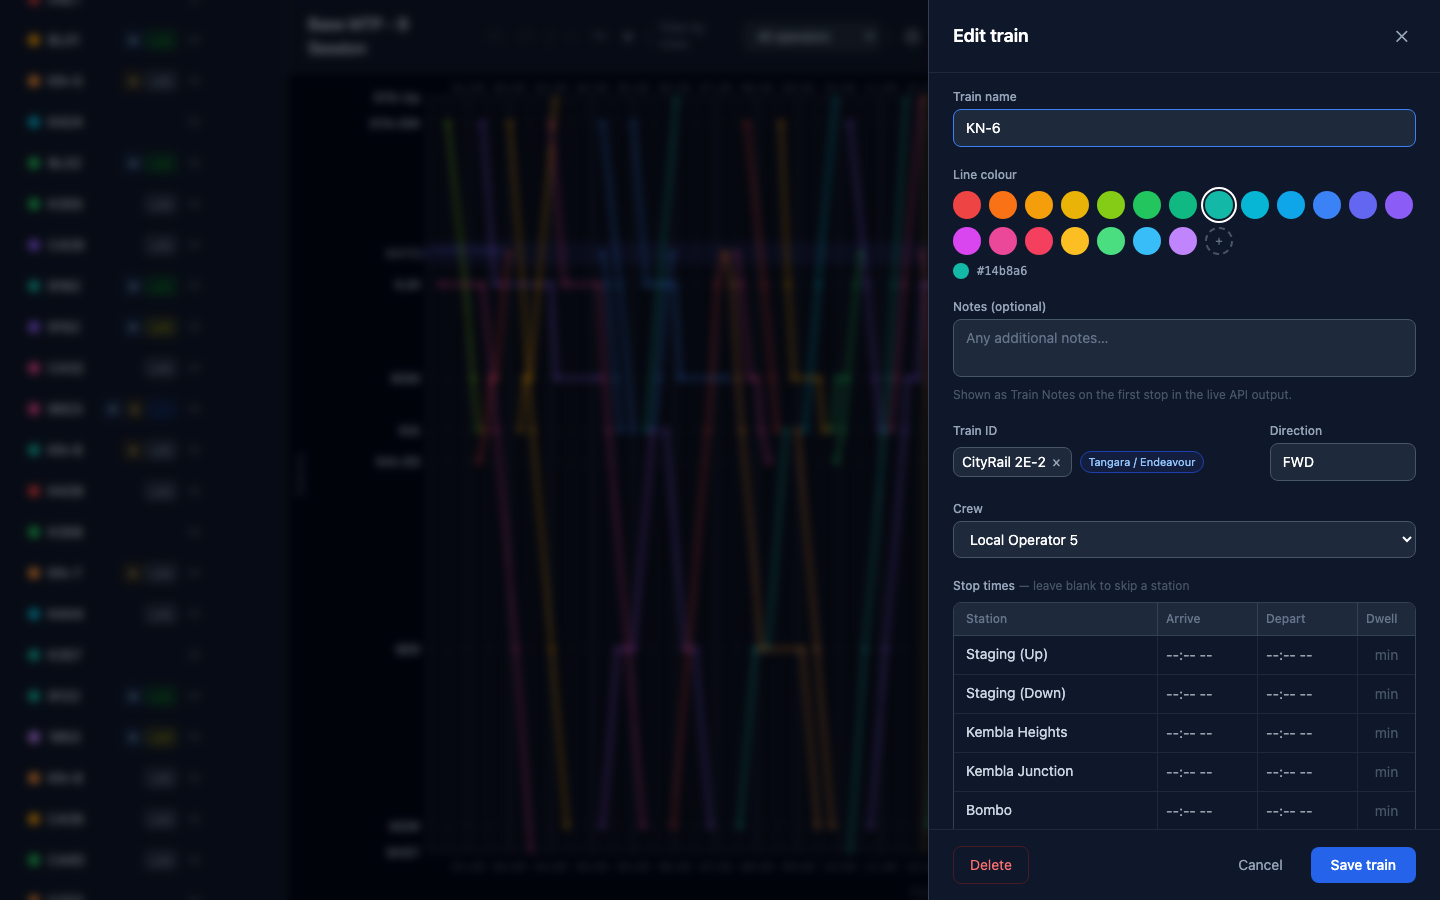
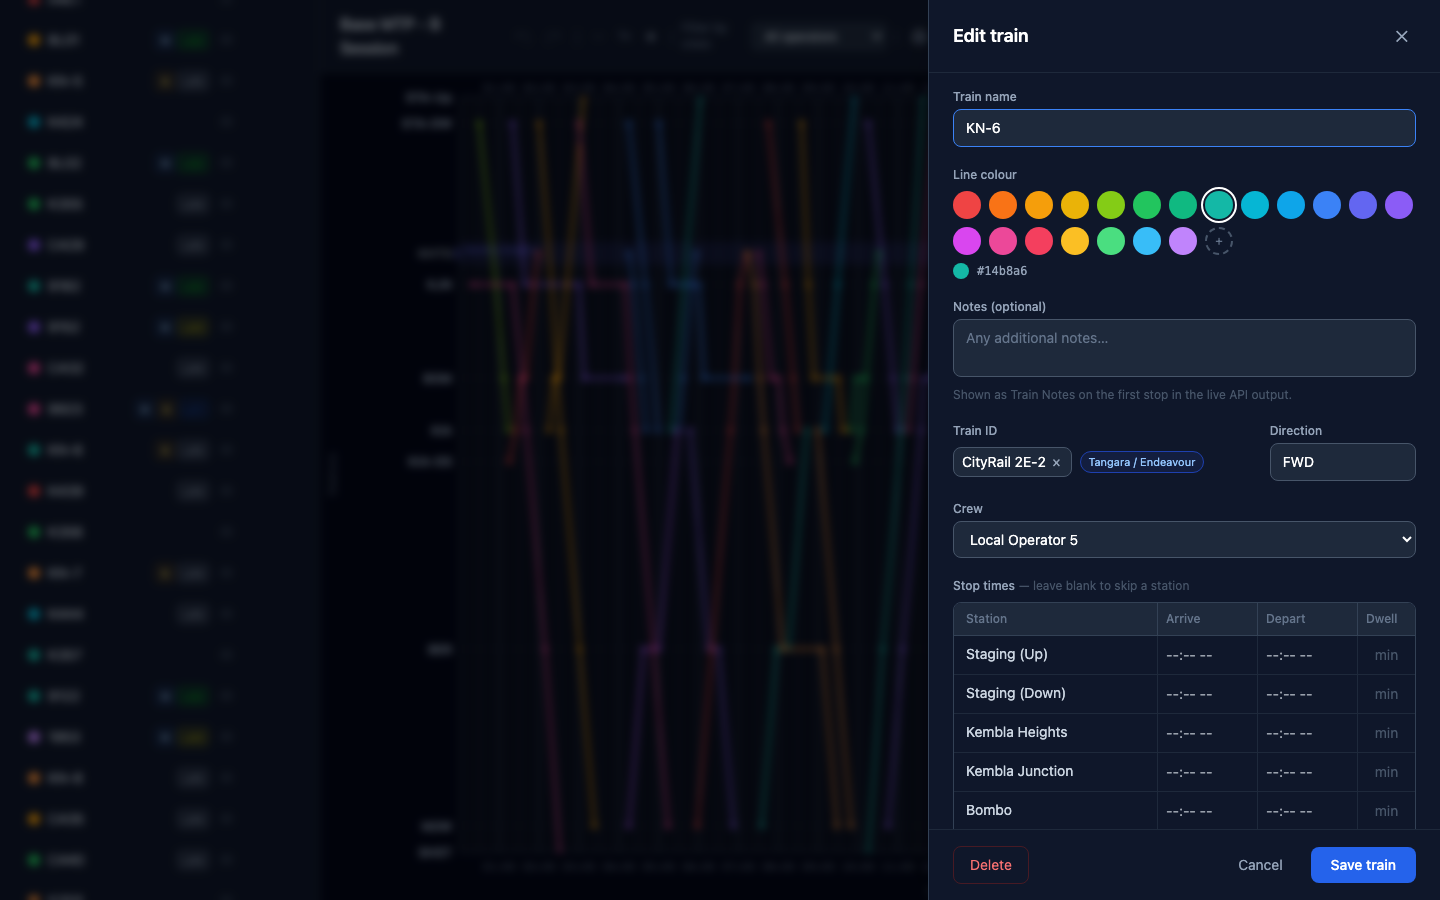
docs: guard events expiry, resizable sidebar; drop old screenshots
Guide and changelog updated for the 12 h guard event expiry and the
resizable sidebar; images regenerated (wider sidebar). The v1
docs/screenshots set and its script are removed: nothing references
them and npm run docs:screenshots replaces them.

diff --git a/docs/user-guide/guard-panel.md b/docs/user-guide/guard-panel.md
@@ -152,7 +152,7 @@ Control can hide scripted events in a train's stops: a late passenger, a door fa
 
 Station events fire a few seconds after a door moment at a stop. En-route events fire part-way between two stops, timed from when you actually left. An en-route event is dropped if you stop somewhere before it fires.
 
-Each event is decided once per run of a train: whether it happens, its wording and its timing. That decision is kept on the tablet, so reloading the page or Control re-saving the train doesn't roll it again, and an un-ACKed banner is still there after a reload. **☰ → Reset events for this train** throws the decision away and rolls again. Use it before running the same train again on the same tablet (for example at the next session), otherwise events that already fired won't fire again.
+Each event is decided once per run of a train: whether it happens, its wording and its timing. That decision is kept on the tablet, so reloading the page or Control re-saving the train doesn't roll it again, and an un-ACKed banner is still there after a reload. The tablet forgets it 12 hours after it last changed, so the next session rolls afresh. To run the same train again within a session, use **☰ → Reset events for this train**: it throws the decision away and rolls again.
 
 ---
 

diff --git a/docs/user-guide/troubleshooting.md b/docs/user-guide/troubleshooting.md
@@ -44,7 +44,7 @@
 | Doors open but the loco does nothing | **not mapped in profile**, or the wrong F-number | Check the profile's decoder functions and **Test** them |
 | **Current stop unknown (no clock) — tap a stop in the list to set it** | No clock reading | Tap the stop you're at to pin it, then open the doors again |
 | The wrong stop is highlighted | Running early/late, or the clock is off | Tap the right stop to pin it (until Doors Close) |
-| A guard event fired at the last session but not this one | Events are rolled once per run and the tablet remembers them | **☰ → Reset events for this train** before running it again |
+| Running a train a second time in the same session, its guard events don't fire | Events are rolled once per run and the tablet remembers them for 12 hours | **☰ → Reset events for this train** before running it again |
 | New layout settings (profiles, events, sounds) aren't used | The open panel hasn't reloaded the settings | **☰ → Reload** |
 | A red banner says Control has removed or reassigned the train | Control changed the job | Close the doors if open, tap **ACK** |
 | Changes from Control stopped arriving | The **Live** dot isn't green | Wait for it to reconnect (it catches up by itself), or **☰ → Reload** |

diff --git a/docs/user-guide/running-a-session.md b/docs/user-guide/running-a-session.md
@@ -24,8 +24,7 @@
 1. Open LiveRun. Choose **Guard panel** or **Crew view** in the mode picker and tick **Remember this choice**.
 2. Guard panel: **Tap to start**, then pick the crew.
 3. Guard panel: open the **first train before Control sets up its authority** ([why](limit-of-authority.md#operating-rules)).
-4. If a tablet will run the same trains it ran at the last session, use **☰ → Reset events for this train** on each, so their [guard events](guard-panel.md#guard-events) are rolled again.
-5. Check the guard panel's **Live**, **JMRI** and **Clock** dots are green.
+4. Check the guard panel's **Live**, **JMRI** and **Clock** dots are green.
 
 ## During the session
 
@@ -60,7 +59,7 @@ Watch the guard panel's strip, or the dots in **Layout → Limit of authority**.
 
 1. **Reset run statuses**: **✓ Reset jobs** in the planner header (or **Reset all statuses** in the crew view).
 2. **Back up** again if you changed the timetable during the session.
-3. Leave the timetable active, or clear the flag. Tablets' LOA state expires by itself 12 hours after the session.
+3. Leave the timetable active, or clear the flag. Tablets forget their LOA state and rolled guard events by themselves 12 hours after the session.
 
 ## If something goes wrong
 

diff --git a/docs/user-guide/planner.md b/docs/user-guide/planner.md
@@ -16,7 +16,7 @@
 
 ![The planner: sidebar on the left, train graph on the right](images/planner-overview.png)
 
-The planner opens at the app's root URL on a desktop browser (add `?desktop` to force it on any device). The sidebar on the left lists **Timetables**, **Trains**, **Crew**, **Stations** and **Paths**. Click a section's heading to fold it away. The header across the top holds undo/redo, zoom, the crew filter, printing, the fast-clock indicator, ⚙ settings, **Guard panel** (opens the guard panel in this browser), **Layout** and **? Help** (this guide).
+The planner opens at the app's root URL on a desktop browser (add `?desktop` to force it on any device). The sidebar on the left lists **Timetables**, **Trains**, **Crew**, **Stations** and **Paths**. Click a section's heading to fold it away. Drag the sidebar's right edge to make it wider or narrower (double-click the edge to reset); the ‹ button (**Collapse sidebar**) folds it away entirely. The header across the top holds undo/redo, zoom, the crew filter, printing, the fast-clock indicator, ⚙ settings, **Guard panel** (opens the guard panel in this browser), **Layout** and **? Help** (this guide).
 
 ---
 

diff --git a/CHANGELOG.md b/CHANGELOG.md
@@ -7,8 +7,10 @@ Notable changes to LiveRun. The [user guide](docs/user-guide/README.md) describe
 ### Fixed
 - **Layout settings previews follow running order.** The Limit of Authority preview showed Up trains' sections reversed (e.g. *Kiama → Berry* for a train running Nowra → Kiama), and the Boarding preview swapped their origin and terminus. Both now match the guard panel.
 - The train editor's en-route guard event wording now says *the next stop the train runs to* (the editor lists stops in station order).
+- **Guard events expire after 12 hours on a tablet**, like LOA state: the next session rolls them afresh instead of finding them already fired. Un-ACKed banners expire too.
 
 ### New
+- **Resizable planner sidebar**: 320 px by default (was 288), drag its right edge to resize; double-click resets.
 - **User guide** in [`docs/user-guide/`](docs/user-guide/README.md), with **Help** links in the planner header, the guard panel's ☰ menu and the crew view.
 
 ## 2.0.0 (2026-10-15)
